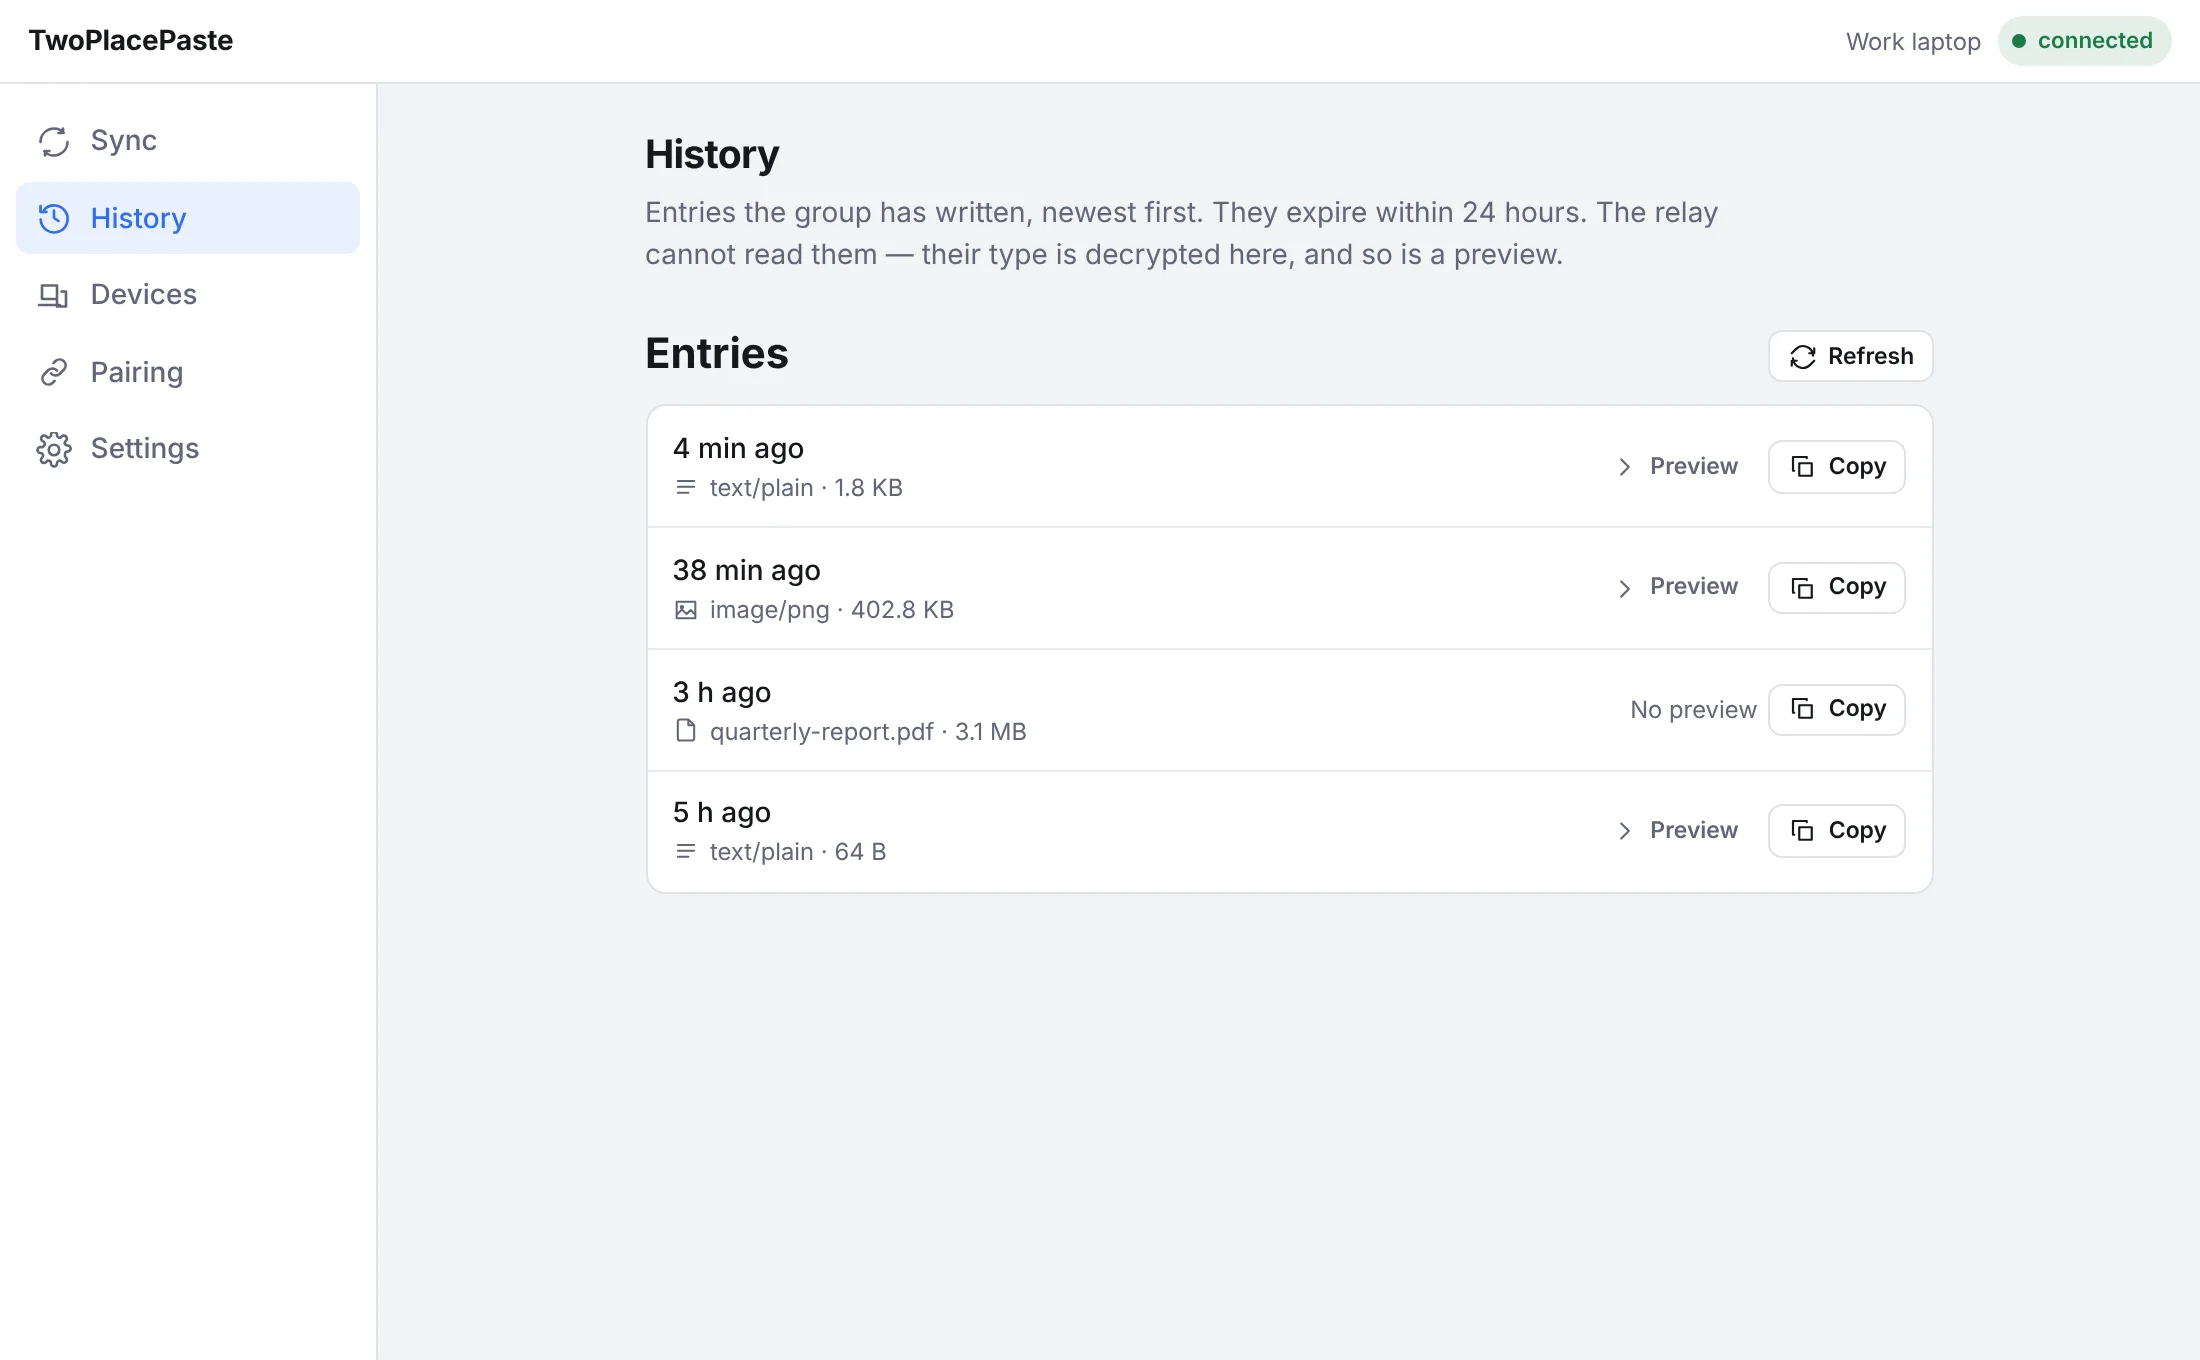
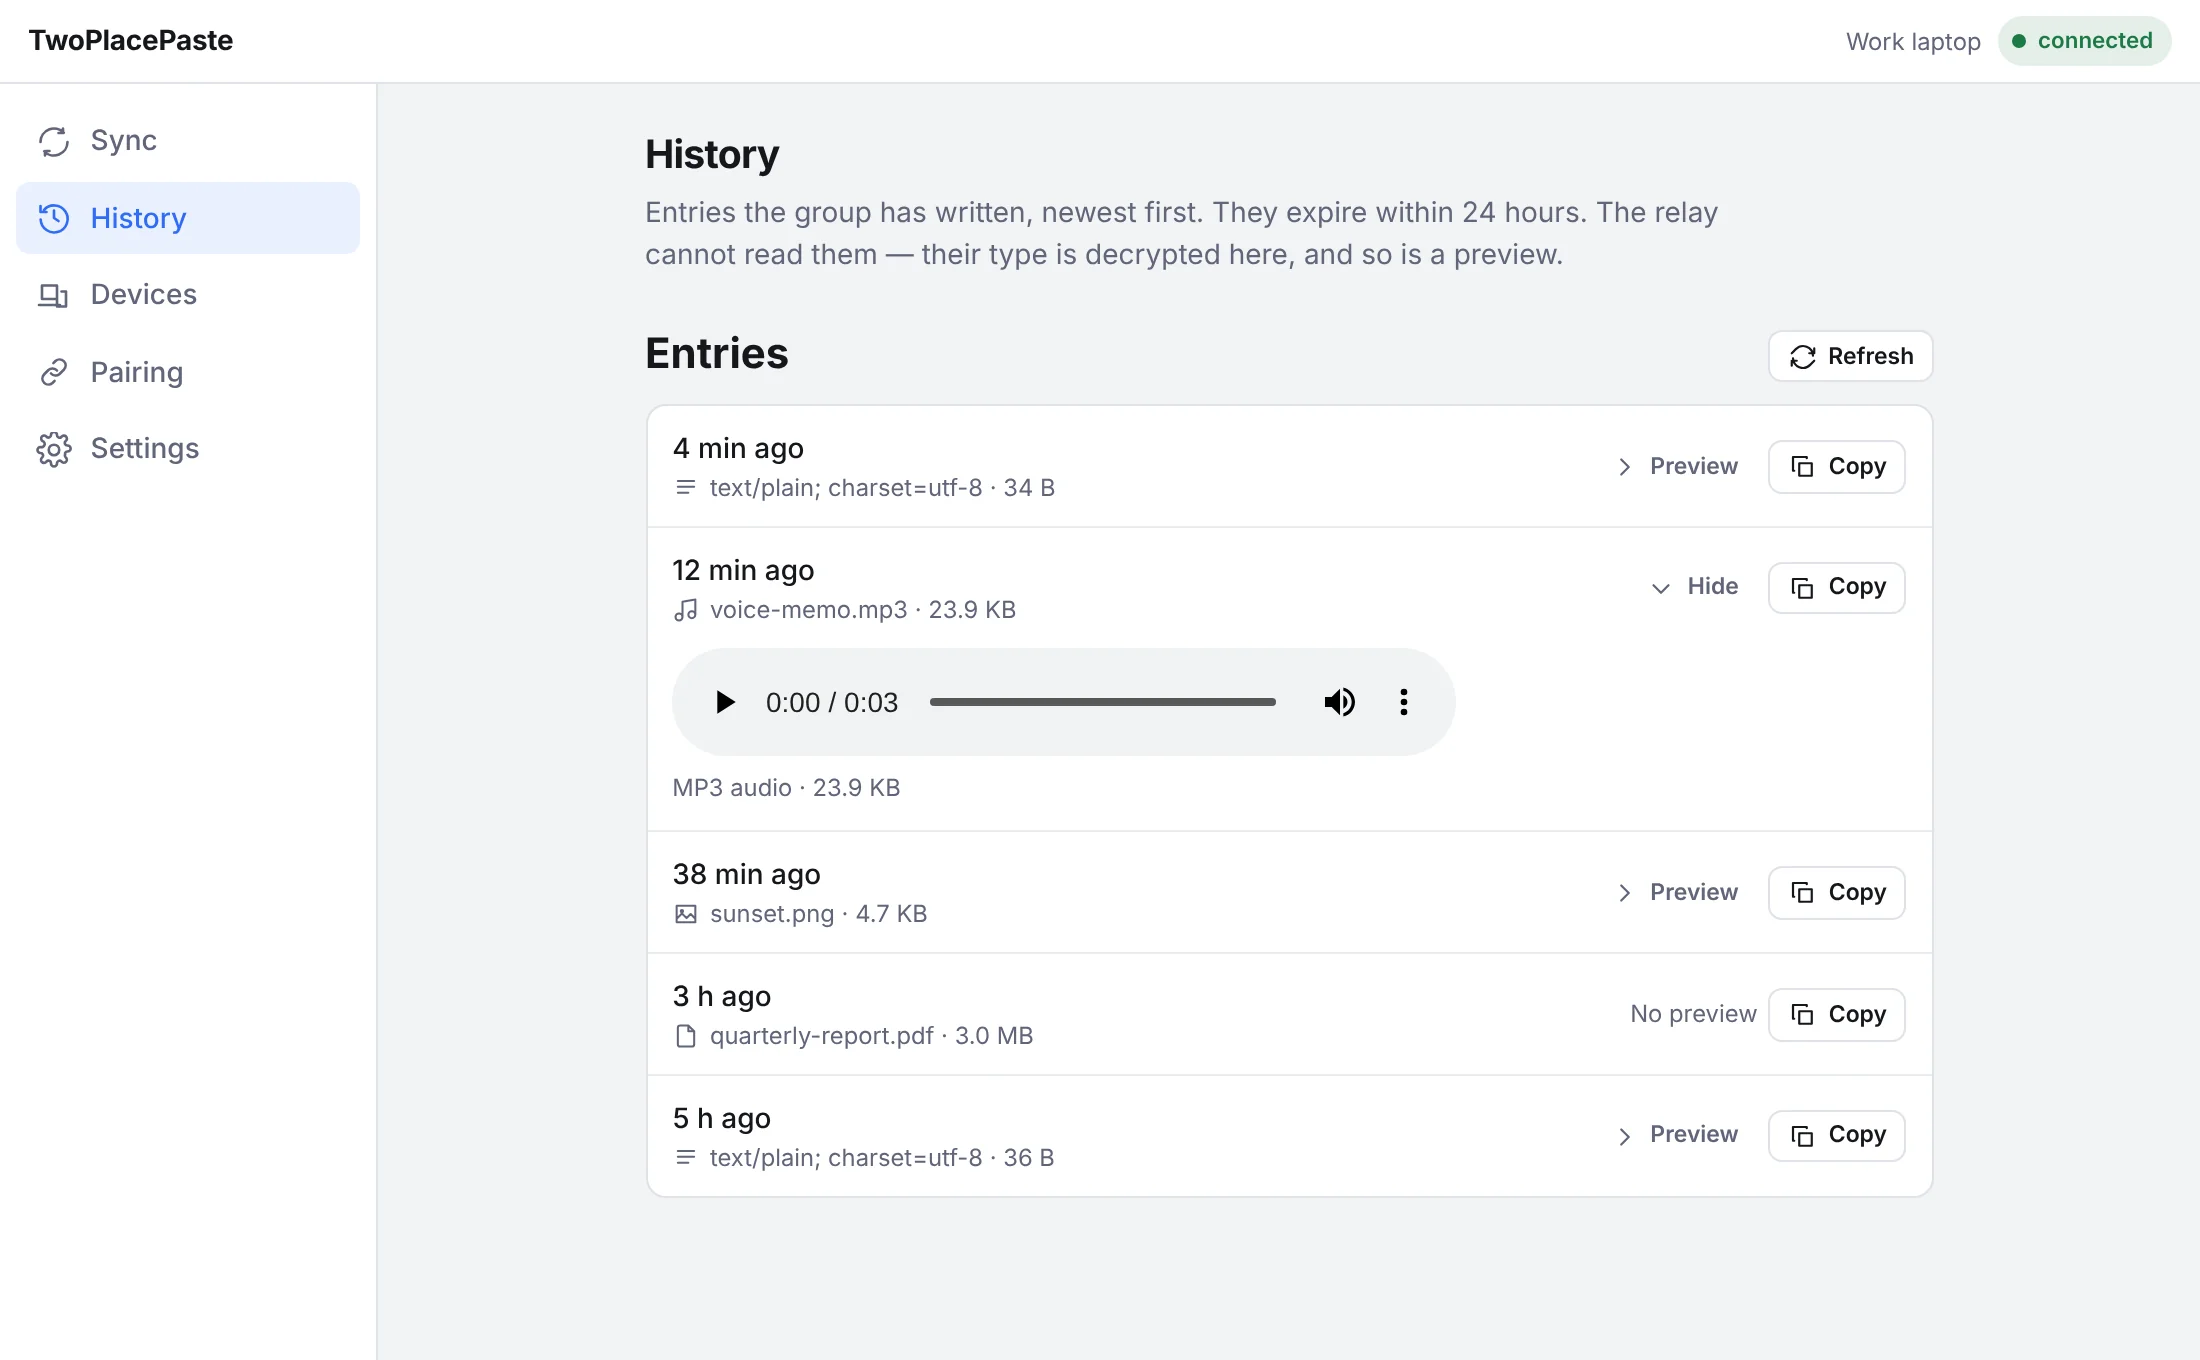
Document file previews in the History guide
- guides/history: which file types preview, the 4,000-character text
  limit, that HTML shows as source, that audio and video wait for play
  and depend on the browser's codecs, that a file whose content does
  not match its name is not previewed, and that previews follow the
  "Download automatically up to" limit.
- Retake the History screenshot with an audio entry open in its
  player.
- SPECS §7.2: the desktop history previews files in the preview table.

Claude-Session: https://claude.ai/code/session_013LsybUSREunJsTduZSPoHe

diff --git a/docs/internal/SPECS.md b/docs/internal/SPECS.md
@@ -546,8 +546,11 @@ binary, served from localhost and opened in the user's default browser.
 - Optional applying of entries other devices upload to the local clipboard (toggle, off
   by default; §6)
 - Manual sync, with the direction asked for when it cannot be worked out
-- History browser, listed when the tab is opened, with a preview of text and image
-  entries at the current epoch
+- History browser, listed when the tab is opened, with a preview of entries at the
+  current epoch: text and images, and files of a type in the desktop's preview table
+  (`desktop/internal/preview`) — images and text drawn inline, audio and video played
+  from bytes the page fetches with its token. A file whose bytes do not match its name
+  is not previewed.
 - Device management and pairing (show QR, scan not applicable — paste token)
 
 **Autostart on login:** user setting, **default off**. Implemented via launchd plist on
